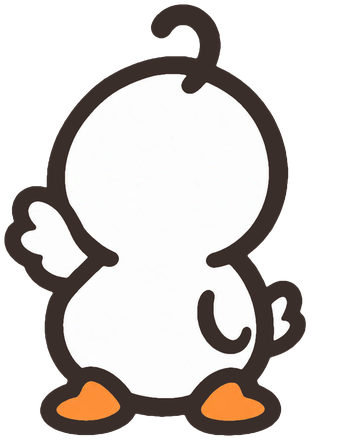
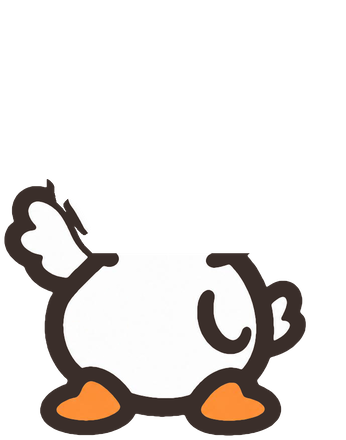
공유 테스트: 도쿠덕 (dokuduck) 플레이 빌드

Changed region(s): [[0.1156, 0.0, 0.8382, 0.5909], [0.2312, 0.5318, 0.3468, 0.5909], [0.2023, 0.5023, 0.2312, 0.5318]]

diff --git a/dokuduck/play/js/game.js b/dokuduck/play/js/game.js
@@ -267,9 +267,9 @@
     const v = XV[i % XV.length];
     return '<svg class="mk x ' + (cls || '') + '" viewBox="0 0 100 100"><path pathLength="1" d="' + v[0] + '"/><path pathLength="1" d="' + v[1] + '"/></svg>';
   }
-  // 판 위의 오리: 몸·볼터치·부리·눈을 겹쳐 그려요. 몸은 가만히 두고 얼굴만 움직여서(눈 깜빡, 고개 도리도리) 칸 밖으로 나가지 않아요.
+  // 판 위의 오리: 머리 묶음(.hd: 머리·깃털·볼터치·부리·눈) 위에 몸을 얹어 그려요. 몸은 가만히 있고, 머리 묶음만 기울여 갸우뚱, 얼굴 조각으로 눈 깜빡·고개 도리도리를 만들어요.
   function duckHTML(i, cls) {
-    return '<span class="mk duck dk' + (cls ? ' ' + cls : '') + '" role="img" aria-label="오리" style="--d:-' + ((i * 370) % 2600) + 'ms;--bd:' + (4.3 + (i * 7 % 5) * .5).toFixed(1) + 's;--fd:' + (11 + (i * 5 % 7) * 1.4).toFixed(1) + 's;--fo:-' + ((i * 3.7) % 11).toFixed(1) + 's"><i class="b0"></i><i class="b1"></i><i class="fb"></i><i class="fk"></i><i class="fe"></i></span>';
+    return '<span class="mk duck dk' + (cls ? ' ' + cls : '') + '" role="img" aria-label="오리" style="--d:-' + ((i * 370) % 2600) + 'ms;--bd:' + (4.3 + (i * 7 % 5) * .5).toFixed(1) + 's;--fd:' + (11 + (i * 5 % 7) * 1.4).toFixed(1) + 's;--fo:-' + ((i * 3.7) % 11).toFixed(1) + 's"><span class="hd"><i class="hf"></i><i class="hr"></i><i class="fb"></i><i class="fk"></i><i class="fe"></i></span><i class="b0"></i><i class="b1"></i></span>';
   }
   const CHECK_SVG = '<svg viewBox="0 0 100 100" aria-hidden="true"><path d="M20 54Q33 66 42 77Q58 44 82 24"/></svg>';
   const View = {
@@ -662,8 +662,9 @@
     save();
     Snd.play('win'); buzz([20, 60, 20, 60, 40]);
     View.clearOverlays(); View.confetti();
-    setTimeout(() => $$('.dk', $('#cells')).forEach(el => { el.classList.remove('in', 'settle'); el.classList.add('hop'); View.wave(el, 950); }), 420);   // 다 같이 "여어!"
-    setTimeout(() => showResult(rewards, notes, bonus), 1800);
+    // 마지막 오리가 먼저 "여어!" 하고 손을 내린 다음(약 1.1초), 한 박자 쉬고 다 같이 "여어!"
+    setTimeout(() => $$('.dk', $('#cells')).forEach(el => { el.classList.remove('in', 'settle'); el.classList.add('hop'); View.wave(el, 850); }), 1350);
+    setTimeout(() => showResult(rewards, notes, bonus), 2700);
   }
   function lose() {
     G.status = 'lost'; G.combo = 0; save();
@@ -1040,7 +1041,7 @@
   /* ---------- 시작 ---------- */
   function boot() {
     const dk = document.createElement('style');                                 // 오리 조각 그림은 한 번만 등록해요 (칸마다 주소를 되풀이하지 않게)
-    dk.textContent = [['b0', 'duck_body'], ['b1', 'duck_wave'], ['fb', 'duck_blush'], ['fk', 'duck_beak'], ['fe', 'duck_eyes']].map(p => '.dk .' + p[0] + '{background-image:url("' + ART[p[1]] + '")}').join('');
+    dk.textContent = [['b0', 'duck_body'], ['b1', 'duck_wave'], ['hf', 'duck_head'], ['hr', 'duck_hair'], ['fb', 'duck_blush'], ['fk', 'duck_beak'], ['fe', 'duck_eyes']].map(p => '.dk .' + p[0] + '{background-image:url("' + ART[p[1]] + '")}').join('');
     document.head.appendChild(dk);
     loadSave();
     $$('[data-ic]').forEach(el => { el.style.backgroundImage = 'url(' + (ART[el.dataset.ic] || '') + ')'; });
@@ -1076,7 +1077,6 @@
       const c = e.target.classList; if (!c || !c.contains('duck')) return;
       if (e.animationName === 'duckin') c.remove('in'); else if (e.animationName === 'cheer') c.remove('hop'); else if (e.animationName === 'settle') c.remove('settle');
     });
-    $('#hint-close').onclick = () => { Snd.play('ui'); hintClose(false); };
     $('#hint-apply').onclick = () => hintClose(true);
     $('#hint-more').onclick = () => {
       Snd.play('ui'); const h = UI.hint; drawHint(h, true); $('#hint-more').hidden = true;

diff --git a/dokuduck/play/css/style.css b/dokuduck/play/css/style.css
@@ -276,19 +276,27 @@ img { max-width: 100%; -webkit-user-drag: none; }
 @keyframes glow { 50% { background: rgba(255, 255, 255, .15); } }
 /* 오리 "여어!": 앉은 모양 그대로 한쪽 날개만 들었다가(그림 바꿈) 팍 내리며 살짝 눌려요 */
 @keyframes settle { 0% { transform: scale(1.06, .92); } 55% { transform: scale(.98, 1.03); } 100% { transform: none; } }
-/* 오리 아이들 동작: 몸은 그대로, 얼굴 조각만 움직여서 칸 밖으로 나가지 않아요 */
+/* 오리 아이들 동작: 몸은 가만히, 머리 쪽 조각만 움직여서 칸 밖으로 나가지 않아요 */
+.dk .hd { position: absolute; inset: 0; transform-origin: 48.1% 57.6%; animation: tilt var(--fd, 13s) ease-in-out var(--fo, 0s) infinite; }   /* 머리 묶음: 목을 축으로 기울어요 */
 .dk i { position: absolute; inset: 0; background: center / contain no-repeat; transform-origin: 50% 35.5%; }
 .dk .b1 { visibility: hidden; }
 .dk.wave .b0 { visibility: hidden; }
 .dk.wave .b1 { visibility: visible; }
+.dk.wave .hd { rotate: 0deg !important; }                     /* 날개를 든 동안은 고개를 바로 (든 날개가 뺨 옆에 붙어 있어서) */
+.dk .hr { transform-origin: 57.6% 16.1%; animation: hair var(--fd, 13s) ease-in-out var(--fo, 0s) infinite; }   /* 머리 깃털: 뿌리를 축으로 흔들려요 */
 .dk .fb { --amp: 1.5%; animation: dori var(--fd, 13s) ease-in-out var(--fo, 0s) infinite; }
 .dk .fk { --amp: 4%; animation: dori var(--fd, 13s) ease-in-out var(--fo, 0s) infinite; }
 .dk .fe { --amp: 3.3%; animation: dori var(--fd, 13s) ease-in-out var(--fo, 0s) infinite, blinkeye var(--bd, 4.6s) linear var(--d, 0s) infinite; }
-/* 고개 도리도리(가운데 조각일수록 많이 움직여 고개를 돌리는 것처럼 보여요) → 한참 뒤 갸웃 */
-@keyframes dori {
-  0%, 18%, 37%, 56%, 80%, 100% { translate: 0 0; rotate: 0deg; }
-  22% { translate: calc(var(--amp) * -1) 0; } 26% { translate: var(--amp) 0; } 30% { translate: calc(var(--amp) * -.8) 0; } 34% { translate: calc(var(--amp) * .5) 0; }
-  61%, 75% { translate: calc(var(--amp) * -.4) 0; rotate: -7deg; }
+/* 고개 도리도리 한 번 (가운데 조각일수록 많이 움직여 고개를 돌리는 것처럼 보여요) */
+@keyframes dori { 0%, 18%, 32%, 100% { translate: 0 0; } 22% { translate: calc(var(--amp) * -1) 0; } 27% { translate: var(--amp) 0; } }
+/* 갸우뚱: 몸은 그대로 두고 머리만 크게 기울어요 */
+@keyframes tilt { 0%, 57%, 83%, 100% { rotate: 0deg; } 61% { rotate: -17deg; } 64%, 76% { rotate: -15deg; } 80% { rotate: 2deg; } }
+/* 머리 깃털: 고개를 돌리거나 기울일 때 한 박자 늦게 따라오며 찰랑 */
+@keyframes hair {
+  0%, 18%, 36%, 57%, 71%, 88%, 100% { rotate: 0deg; }
+  21% { rotate: 14deg; } 25.5% { rotate: -15deg; } 30.5% { rotate: 10deg; } 33.5% { rotate: -4deg; }
+  60% { rotate: 22deg; } 63.5% { rotate: -14deg; } 66.5% { rotate: 7deg; } 69% { rotate: -3deg; }
+  78.5% { rotate: -20deg; } 81.5% { rotate: 12deg; } 84.5% { rotate: -5deg; }
 }
 /* 눈 깜빡 … 꿈빡꿈빡 */
 @keyframes blinkeye { 0%, 45.5%, 48.5%, 88.7%, 91.7%, 93.3%, 96.3%, 100% { scale: 1 1; } 47%, 90.2%, 94.8% { scale: 1 .1; } }

diff --git a/dokuduck/play/ncq-flags.js b/dokuduck/play/ncq-flags.js
@@ -1,5 +1,5 @@
 /* 엔크로키 출시 빌드 표시 (ncq_build.py가 만들어요) */
-window.NCQ = Object.freeze({"NCQ_TEST_CHEAT": true, "NCQ_MARKET_WEB": true, "NCQ_TRACK_SHARE": true, "NCQ_PLATFORM": "web", "NCQ_VERSION": "0.1.0", "NCQ_VERSION_CODE": 0, "NCQ_PACKAGE": "com.ncroquis.dokuduck", "NCQ_FEEDBACK": {"url": "https://kickoff-476465444216.asia-northeast3.run.app/ncq/v1/feedback/dokuduck", "board": "https://ncroquis.github.io/dokuduck/feedback/"}});
+window.NCQ = Object.freeze({"NCQ_TEST_CHEAT": true, "NCQ_MARKET_WEB": true, "NCQ_TRACK_SHARE": true, "NCQ_PLATFORM": "web", "NCQ_VERSION": "0.2.0", "NCQ_VERSION_CODE": 0, "NCQ_PACKAGE": "com.ncroquis.dokuduck", "NCQ_FEEDBACK": {"url": "https://kickoff-476465444216.asia-northeast3.run.app/ncq/v1/feedback/dokuduck", "board": "https://ncroquis.github.io/dokuduck/feedback/"}});
 Object.assign(window, window.NCQ);
 
 /* 화면 켜 두기 (ncq_build.py가 넣어요, 웹 공개). 게임을 보는 동안 휴대폰 화면이 저절로 꺼지지 않게 브라우저의
@@ -400,4 +400,4 @@ Object.assign(window, window.NCQ);
     window.setInterval(safe(function () { flush(false); }), FLUSH_EVERY);
     window.setTimeout(safe(function () { flush(false); }), 2000);
   } catch (e) { /* 지표 때문에 게임이 멈추면 안 된다 */ }
-})({"url":"https://kickoff-476465444216.asia-northeast3.run.app/ncq/v1/sync","cn":"dokuduck","pf":"web","mk":"web","tr":"share","vn":"0.1.0","vc":0,"cm":"36ab3e6","ft":["CHEAT"]});
+})({"url":"https://kickoff-476465444216.asia-northeast3.run.app/ncq/v1/sync","cn":"dokuduck","pf":"web","mk":"web","tr":"share","vn":"0.2.0","vc":0,"cm":"74e7afb","ft":["CHEAT"]});

diff --git a/index.html b/index.html
@@ -340,7 +340,7 @@ footer { margin-top: 72px; color: var(--on-mat-soft); font-size: 14px; }
       <span class="tape" data-status="개발 중">개발 중</span>
       <div class="head"><span class="app-icon none" aria-hidden="true">도</span><div class="title"><h2><a href="dokuduck/">도쿠덕</a></h2></div></div>
       <p class="summary">색마다, 줄마다 오리 한 마리! 멍한 흰 오리 도쿠를 찾는 논리 퍼즐</p>
-      <p class="quick"><a class="quick-play" href="dokuduck/play/" aria-label="도쿠덕 바로 플레이">바로 플레이</a> <span class="ver">v0.1.0</span><a class="quick-board" href="dokuduck/feedback/" aria-label="도쿠덕 피드백 게시판">피드백</a></p>
+      <p class="quick"><a class="quick-play" href="dokuduck/play/" aria-label="도쿠덕 바로 플레이">바로 플레이</a> <span class="ver">v0.2.0</span><a class="quick-board" href="dokuduck/feedback/" aria-label="도쿠덕 피드백 게시판">피드백</a></p>
       <p class="note">dokuduck, 2026.11.13 시작</p>
       <p class="by">만든 사람 <a class="dev" href="https://github.com/ncroquis-dev" rel="noopener" aria-label="개발자 GitHub ncroquis-dev">@ncroquis-dev</a></p>
     </article>

diff --git a/dokuduck/index.html b/dokuduck/index.html
@@ -325,7 +325,7 @@ footer { margin-top: 72px; color: var(--on-mat-soft); font-size: 14px; }
     <div class="head"><span class="app-icon none" aria-hidden="true">도</span><div class="title"><h1>도쿠덕</h1></div></div>
     <p class="lead">색마다, 줄마다 오리 한 마리! 멍한 흰 오리 도쿠를 찾는 논리 퍼즐</p>
     <p class="pitch">색 구역과 가로줄, 세로줄마다 오리가 딱 한 마리씩 숨어 있어요. 오리끼리는 붙어 앉지 않는다는 규칙만으로 자리를 추리해 찾아내는 세로형 논리 퍼즐이에요. 손그림 느낌의 단색 그림과 멍한 흰 오리 도쿠가 함께해요.</p>
-    <p class="actions"><a class="play" href="play/">플레이해 보기</a> <span class="ver">v0.1.0</span></p>
+    <p class="actions"><a class="play" href="play/">플레이해 보기</a> <span class="ver">v0.2.0</span></p>
     <p class="board-link"><a href="feedback/">피드백 남기기 · 다른 사람 의견 보기</a></p>
     <p class="note">dokuduck, 2026.11.13 시작</p>
     <p class="by">만든 사람 <a class="dev" href="https://github.com/ncroquis-dev" rel="noopener" aria-label="개발자 GitHub ncroquis-dev">@ncroquis-dev</a></p>

diff --git a/dokuduck/play/index.html b/dokuduck/play/index.html
@@ -63,7 +63,7 @@
     <div class="hintbar" id="hintbar" hidden>
       <img id="hint-duck" alt="">
       <p id="hint-text"></p>
-      <div class="row"><button class="btn small ghost" id="hint-close" type="button">닫기</button><button class="btn small ghost" id="hint-more" type="button" hidden>자세히</button><button class="btn small primary" id="hint-apply" type="button">적용</button></div>
+      <div class="row"><button class="btn small ghost" id="hint-more" type="button" hidden>자세히</button><button class="btn small primary" id="hint-apply" type="button">확인</button></div>
     </div>
     <div class="draftbar" id="draftbar" hidden>
       <p>낙서연필로 오리와 X를 가볍게 그려 보세요. 확정하면 한꺼번에 확인해요.</p>

diff --git a/dokuduck/play/js/art.js b/dokuduck/play/js/art.js
@@ -4,6 +4,8 @@ window.DOKU_ART = {
   duck_blush: 'assets/img/duck_blush.webp',
   duck_body: 'assets/img/duck_body.webp',
   duck_eyes: 'assets/img/duck_eyes.webp',
+  duck_hair: 'assets/img/duck_hair.webp',
+  duck_head: 'assets/img/duck_head.webp',
   duck_hello: 'assets/img/duck_hello.webp',
   duck_idle: 'assets/img/duck_idle.webp',
   duck_joy: 'assets/img/duck_joy.webp',

diff --git a/dokuduck/play/tools/art_duck_layers.py b/dokuduck/play/tools/art_duck_layers.py
@@ -2,7 +2,7 @@
 
 - 두 프레임을 같은 크기의 판에 같은 자리로 맞춘다 (겹치면 날개만 다르다).
 - 날개 둘레가 아닌 곳은 기본 프레임 픽셀을 그대로 써서 바뀔 때 떨리지 않게 한다.
-- 얼굴(눈·부리·볼터치)을 따로 떼어 낸다. 게임에서 눈 깜빡임·고개 도리도리를 몸은 가만히 둔 채 얼굴만 움직여 만든다.
+- 머리와 몸을 목에서 나누고, 얼굴(눈·부리·볼터치)과 머리 깃털도 따로 떼어 낸다. 게임에서 눈 깜빡임·고개 도리도리·갸우뚱·깃털 흔들림을 이 조각만 움직여 만든다 (몸은 가만히).
 
 쓰기: python3 tools/art_duck_layers.py <sheet.png> <out_dir> [높이=440]
 """
@@ -52,7 +52,7 @@ def crop(x):
     sx0, sx1, sy0, sy1 = max(0, x0), min(x.shape[1], x1), max(0, y0), min(x.shape[0], y1)
     out[sy0 - y0:sy1 - y0, sx0 - x0:sx1 - x0] = x[sy0:sy1, sx0:sx1]
     return out
-A, B2, keep = crop(A), crop(B2), crop(np.dstack([keep] * 4).astype(np.float32))[..., 0] > .5
+A, B2, keep, Mc = crop(A), crop(B2), crop(np.dstack([keep] * 4).astype(np.float32))[..., 0] > .5, crop(np.dstack([M[..., 0]] * 4))[..., 0]
 h, w = A.shape[:2]
 
 # 3) 얼굴 조각 찾기: 흰 몸 안에 따로 떨어져 있는 색 덩어리 (윤곽선에 붙은 것은 몸)
@@ -94,12 +94,86 @@ white = np.median(rgb[solid & (mn >= 232) & (np.arange(h)[:, None] < h * .5)], a
 def blank(x):
     out = x.copy(); out[..., :3] = np.where(erase[..., None], white, out[..., :3]); return out
 
-outs = {'duck_idle': A, 'duck_yo': B2, 'duck_body': blank(A), 'duck_wave': blank(B2),
+# 4) 머리 깃털(꼬불 한 가닥)도 따로 뗀다: 흰 몸에서 윤곽선 두께보다 멀리 솟은 부분이 깃털
+yy, xx = np.mgrid[0:h, 0:w]
+cxh, eye_px = w / 2, np.mean([p[3] for p in parts['eyes']])
+inner = ndi.binary_closing(ndi.binary_fill_holes(solid & (mn >= 232)), iterations=14)      # 깃털 뿌리가 파고든 자리는 메운다
+dist = ndi.distance_transform_edt(~inner)
+side = (al > 128) & ~inner & (yy < eye_px - 40) & (np.abs(xx - cxh) > 95) & (np.abs(xx - cxh) < 210)
+thick = float(np.percentile(dist[side], 99)) + .5                                             # 윤곽선 두께
+headbox = (yy < eye_px) & (np.abs(xx - cxh) < 150)
+core = headbox & (al > 128) & (dist > thick + 4)
+lab_h, nh = ndi.label(core)
+core = lab_h == (1 + int(np.argmax(ndi.sum(core, lab_h, range(1, nh + 1)))))                 # 가장 큰 덩어리만
+near = ndi.binary_dilation(core, iterations=7)
+above = np.clip(dist - thick, 0, 1) * near                                                    # 1이면 깃털, 0이면 몸
+hair_a = al * above
+# 뿌리: 깃털이 닿은 자리의 윤곽선도 조금 같이 가져가서, 흔들려도 틈이 보이지 않게 한다
+root = ndi.binary_dilation(core, iterations=15) & solid & (mn < 110) & (dist > thick - 17) & (dist <= thick + 1) & headbox
+root_a = np.minimum(ndi.gaussian_filter(root.astype(np.float32), 1.0) * 255, al)
+hair = np.dstack([rgb, np.maximum(hair_a, root_a)])
+jy, jx = np.where(core & (dist < thick + 9))
+pivot = (float(jx.mean()), float(jy.mean()) + thick * .55)
+hx0, hx1 = int(np.where(core.any(0))[0].min()), int(np.where(core.any(0))[0].max())
+def nohair(x):
+    out = x.copy(); out[..., 3] = out[..., 3] * (1 - above); return out
+
+# 5) 머리와 몸을 목에서 나눈다 (게임에서 갸우뚱할 때 머리만 기울이려고)
+#    머리는 달걀 모양을 끝까지 이어 그려 몸 '뒤'에 두고, 몸은 목 아래 원래 그림 그대로 그 위에 얹는다.
+#    평소에는 이어 그린 부분이 몸에 가려 원래 그림과 똑같고, 머리가 기울어도 목에서 선이 끊기지 않는다.
+sil = al > 128
+roww = sil.sum(1)
+r0, r1 = int(eye_px + 30), int(h * .62)
+yc = r0 + int(np.argmin(roww[r0:r1]))                        # 실루엣이 가장 잘록한 줄 = 목
+cols = np.where(sil[yc])[0]; xL, xR = int(cols.min()), int(cols.max()) + 1
+x0 = (xL + xR) / 2
+INK = np.array([58, 46, 42], np.float32)
+head_src = nohair(blank(A))
+pts = []
+for y in range(int(eye_px - 30), yc - 8):                    # 뺨~목 위 윤곽으로 타원을 맞춘다
+    c_ = np.where(head_src[y, :, 3] > 128)[0]
+    pts += [(c_.min(), y), (c_.max() + 1, y)]
+P = np.array(pts, np.float64)
+kA, kB, kC, kD = np.linalg.lstsq(np.c_[P[:, 0] ** 2, P[:, 1] ** 2, P[:, 0], P[:, 1]], np.ones(len(P)), rcond=None)[0]
+ex, ey = -kC / (2 * kA), -kD / (2 * kB)
+rhs = 1 + kA * ex ** 2 + kB * ey ** 2
+ea, eb = float(np.sqrt(rhs / kA)), float(np.sqrt(rhs / kB))
+edist = (1 - np.sqrt(((xx - ex) / ea) ** 2 + ((yy - ey) / eb) ** 2)) * min(ea, eb)
+low = (yy >= yc - 3)
+o_a, i_a = np.clip(edist + .5, 0, 1) * low, np.clip(edist - thick + .5, 0, 1) * low
+lower = np.dstack([INK[None, None, :] * (1 - i_a[..., None]) + white[None, None, :] * i_a[..., None], o_a * 255])
+def over(top, bottom):
+    ta, ba = top[..., 3:] / 255, bottom[..., 3:] / 255
+    oa = ta + ba * (1 - ta)
+    return np.dstack([(top[..., :3] * ta + bottom[..., :3] * ba * (1 - ta)) / np.maximum(oa, 1e-3), oa * 255])
+upper = (yy < yc)[..., None]
+head = over(np.where(upper, head_src, 0), lower)
+def body_of(x): return np.where(upper, 0, x)
+body, body_wave = body_of(blank(A)), body_of(blank(B2))
+# 든 날개는 목 위(뺨 옆)까지 올라온다. 그 윗부분은 몸 조각에 함께 넣어 머리 위에 그려지게 한다.
+body_wave[..., 3] = np.where(upper[..., 0], B2[..., 3] * (Mc > .002), body_wave[..., 3])
+body_wave[..., :3] = np.where(upper, B2[..., :3], body_wave[..., :3])
+leak = int(((lower[..., 3] > 128) & (body[..., 3] < 128) & (yy >= yc)).sum())   # 평소에 이어 그린 머리가 몸 밖으로 비치는 픽셀
+pivot_head = (x0, float(yc))
+
+outs = {'duck_idle': A, 'duck_yo': B2, 'duck_body': body, 'duck_wave': body_wave, 'duck_head': head, 'duck_hair': hair,
         'duck_eyes': layers['eyes'], 'duck_beak': layers['beak'], 'duck_blush': layers['blush']}
 s = OUT_H / h
 size = (round(w * s), OUT_H)
+def shrink(x):
+    """투명한 곳의 색이 가장자리로 번지지 않게, 색에 투명도를 곱한 채로 줄인 뒤 되돌린다"""
+    a = x[..., 3:] / 255
+    ch = [np.asarray(Image.fromarray(np.ascontiguousarray(c[..., 0]).astype(np.float32), 'F').resize(size, Image.LANCZOS)) for c in np.dsplit(np.dstack([x[..., :3] * a, x[..., 3:]]), 4)]
+    al_ = np.clip(ch[3], 0, 255)
+    rgb_ = [np.clip(c / np.maximum(al_ / 255, 1e-3), 0, 255) for c in ch[:3]]
+    return Image.fromarray(np.dstack(rgb_ + [al_]).round().astype(np.uint8), 'RGBA')
 for name, x in outs.items():
-    im = Image.fromarray(x.round().astype(np.uint8), 'RGBA').resize(size, Image.LANCZOS)
+    im = shrink(x)
     im.save('%s/%s.webp' % (out_dir, name), lossless=True, quality=100, method=6)   # 무손실: 두 프레임이 날개 밖에서 완전히 같아야 한다
 eye_y = np.mean([p[3] for p in parts['eyes']]) / h * 100
-print(json.dumps({'size': size, 'eye_y_pct': round(eye_y, 1), 'body_w_pct': round((ax1 - ax0) / w * 100, 1)}))
+# 게임에서는 정사각형 칸 가운데에 높이를 맞춰 그리므로, 가로 위치는 칸 기준 %로 바꿔 알려 준다
+hair_x = 50 + (pivot[0] / w - .5) * (w / h) * 100
+print(json.dumps({'size': size, 'eye_y_pct': round(eye_y, 1), 'body_w_pct': round((ax1 - ax0) / w * 100, 1),
+                  'hair_cols': [int(hx0), int(hx1)], 'hair_pivot_pct': [round(hair_x, 1), round(pivot[1] / h * 100, 1)],
+                  'neck_row': yc, 'neck_x': [xL, xR], 'head_ellipse': [round(ex), round(ey), round(ea), round(eb)], 'leak_px': leak,
+                  'head_pivot_pct': [round(50 + (pivot_head[0] / w - .5) * (w / h) * 100, 1), round(pivot_head[1] / h * 100, 1)]}))
